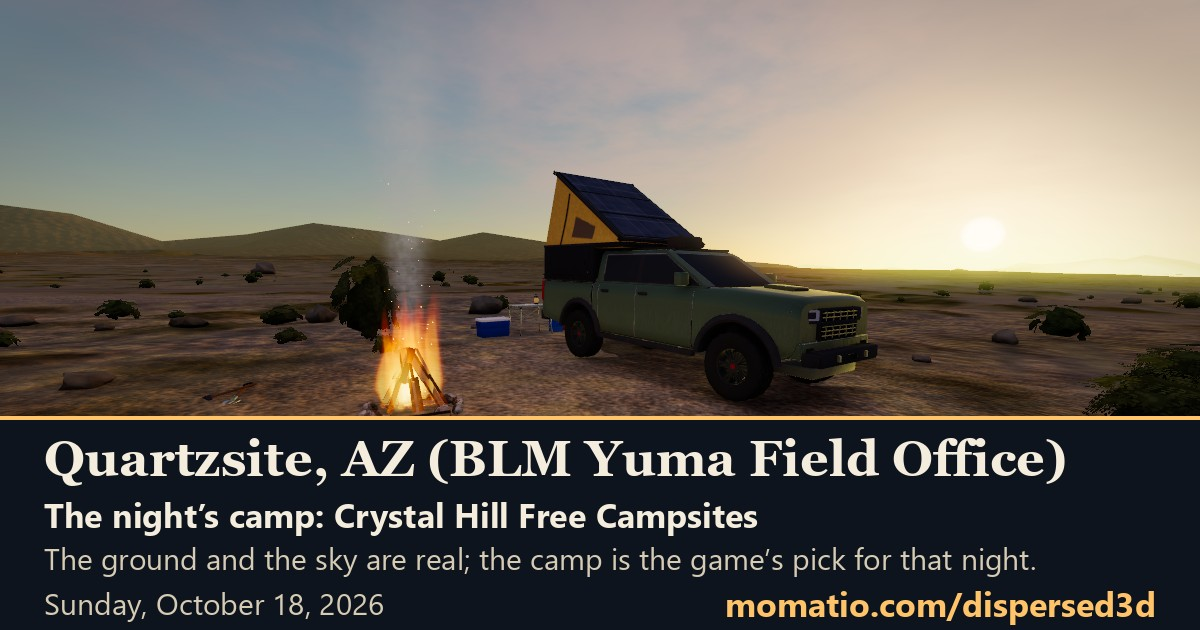
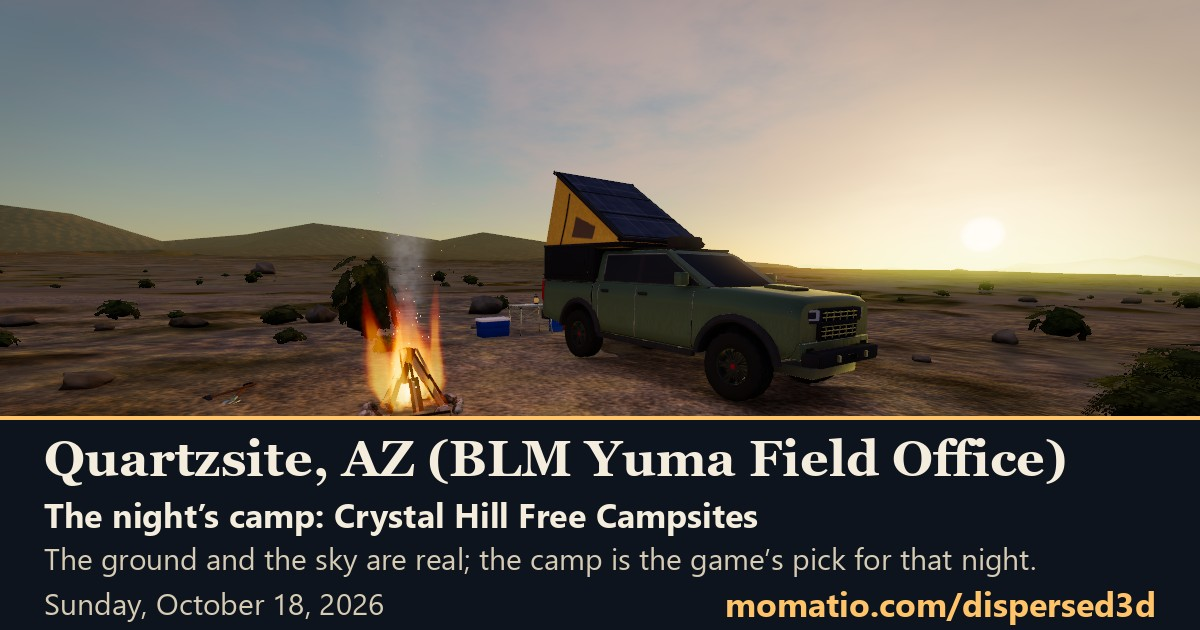
Release 2026-10-18c: the sound offer stays off the fire, and a reminder to stay on the mapped roads
Claude-Session: https://claude.ai/code/session_01JJzT1DsoBWtYVWVcn1Rthj

Changed region(s): [[0.2775, 0.4524, 0.37, 0.6635], [0.8942, 0.6333, 0.925, 0.6635]]

diff --git a/README.md b/README.md
@@ -32,11 +32,12 @@ This is a game laid over real places, and the real places do most of the work. H
 
 ## What's new
 
-**October 18, 2026, midday: Lighter ground photos on phones, and a try-out of the enjoy-the-ride screen**
+**October 18, 2026, evening: The sound offer stays off the fire, and a reminder to stay on the mapped roads**
 
-- On a phone that can show compressed pictures, the ground photographs now take about a quarter of the memory they did (about 21 MB instead of 78), so the game runs easier. Computers and older phones keep the regular photographs, and the Info card says which you have and why
-- A try-out of a calmer screen while you drive, from Dave's own idea: add ?ride=1 to the address. Camp names stay away until you ask for them, a small arrow with the miles points to your camp, a pull down from the top brings the clock, light, gas and water, and any line that pops up goes away by itself in a few seconds
-- For people building AI players: add ?ai=1 and an AI can take the driver's seat. Self Drive does the driving, the AI makes the slow calls (which camp, gas and water, push on or wait), and touching the wheel hands it straight back to you
+- Sitting by the fire, the offer to turn the camp sound on now always moves off the fire. On a slow phone it could land right on top of the flames and stay there
+- Stay on the mapped roads: the first time you park well off every mapped road and away from any camp, one line says so. Driving off the forest's vehicle map can earn a ticket, dry-looking ground can be a wetland, and the Road button points the way back. It is said once, never again
+- The trip card is fairer: a fire lit and put out on the same day counts for that night, and Head for town now checks the camp the same way driving away does: a fire still going is put out and camp packed up first, and a clean leave counts as packed up
+- Behind the scenes: more groundwork for AI players. It is not open yet
 
 [Every release, in the changelog](https://github.com/davelalande/dispersed3d-progress/blob/main/CHANGELOG.md)
 

diff --git a/CHANGELOG.md b/CHANGELOG.md
@@ -2,6 +2,13 @@
 
 Every release of the live game, newest first. Play it at **[momatio.com/dispersed3d](https://momatio.com/dispersed3d/)**.
 
+## October 18, 2026, evening: The sound offer stays off the fire, and a reminder to stay on the mapped roads
+
+- Sitting by the fire, the offer to turn the camp sound on now always moves off the fire. On a slow phone it could land right on top of the flames and stay there
+- Stay on the mapped roads: the first time you park well off every mapped road and away from any camp, one line says so. Driving off the forest's vehicle map can earn a ticket, dry-looking ground can be a wetland, and the Road button points the way back. It is said once, never again
+- The trip card is fairer: a fire lit and put out on the same day counts for that night, and Head for town now checks the camp the same way driving away does: a fire still going is put out and camp packed up first, and a clean leave counts as packed up
+- Behind the scenes: more groundwork for AI players. It is not open yet
+
 ## October 18, 2026, midday: Lighter ground photos on phones, and a try-out of the enjoy-the-ride screen
 
 - On a phone that can show compressed pictures, the ground photographs now take about a quarter of the memory they did (about 21 MB instead of 78), so the game runs easier. Computers and older phones keep the regular photographs, and the Info card says which you have and why
